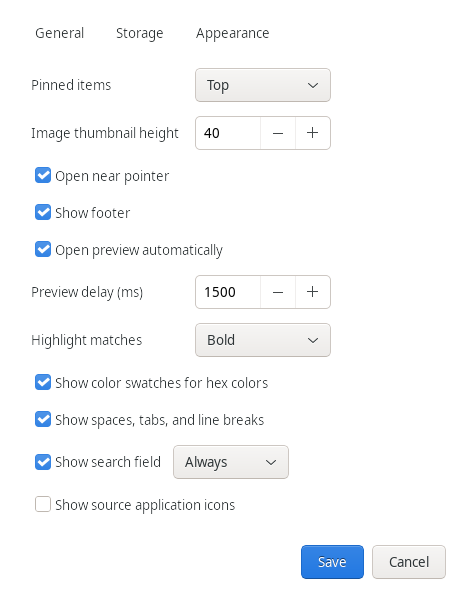
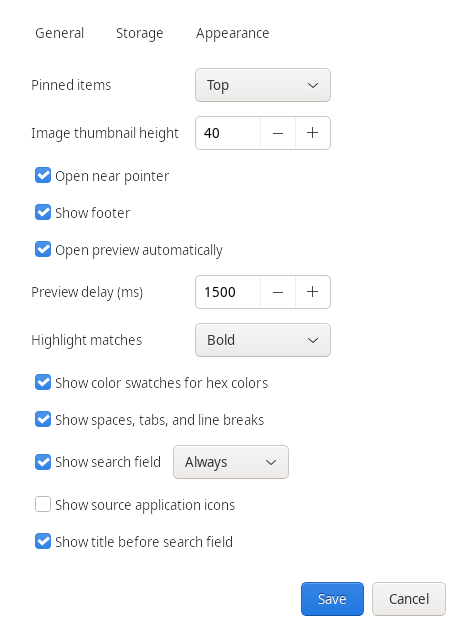
Add Maccy-style optional popup title

diff --git a/linuxxy.py b/linuxxy.py
@@ -63,13 +63,20 @@ class App:
         box = Gtk.Box(orientation=Gtk.Orientation.VERTICAL, spacing=0)
         box.set_border_width(7)
         self.window.add(box)
+        self.search_line = Gtk.Box(spacing=5)
+        self.search_line.set_no_show_all(True)
+        box.pack_start(self.search_line, False, False, 3)
+        self.title_label = Gtk.Label(label="Linuxxy")
+        self.title_label.set_name("linuxxy-title")
+        self.title_label.set_no_show_all(True)
+        self.search_line.pack_start(self.title_label, False, False, 5)
         self.search = Gtk.SearchEntry()
         self.search.set_name("linuxxy-search")
         self.search.set_no_show_all(True)
         self.search.set_placeholder_text("Search clipboard history")
         self.search.connect("changed", self.search_changed)
         self.search.connect("key-press-event", self.search_key)
-        box.pack_start(self.search, False, False, 3)
+        self.search_line.pack_start(self.search, True, True, 0)
         self.search_separator = Gtk.Separator()
         self.search_separator.set_no_show_all(True)
         box.pack_start(self.search_separator, False, False, 4)
@@ -129,6 +136,7 @@ class App:
         provider.load_from_data(b"""
             #linuxxy-popup { background: #28292d; border: 1px solid #4a4b50; border-radius: 9px; }
             #linuxxy-search { min-height: 30px; margin: 2px 2px 4px 2px; }
+            #linuxxy-title { color: #b8b9bd; font-size: 12px; }
             #linuxxy-list, #linuxxy-list > row { background: transparent; }
             #linuxxy-list > row { min-height: 31px; border-radius: 5px; }
             #linuxxy-list > row label { color: #eeeeee; }
@@ -156,7 +164,10 @@ class App:
         )
         was_focused = self.search.is_focus()
         self.search.set_visible(visible)
-        self.search_separator.set_visible(visible)
+        self.title_label.set_visible(self.settings.get("show_title"))
+        header_visible = visible or self.settings.get("show_title")
+        self.search_line.set_visible(header_visible)
+        self.search_separator.set_visible(header_visible)
         if not visible and was_focused and self.window.get_visible():
             row = self.selected()
             if row:
@@ -341,8 +352,10 @@ class App:
         visible = min(count, 9)
         image_extra = max(0, self.settings.get("image_max_height") - 30)
         height = 105 + max(34, visible * 40 + min(image_count, visible) * image_extra)
-        if not self.search.get_visible():
+        if not self.search_line.get_visible():
             height -= 43
+        elif not self.search.get_visible():
+            height -= 14
         if not self.settings.get("show_footer"):
             height -= 26
         self.window.resize(440, min(height, 470))
@@ -955,6 +968,9 @@ class App:
         application_icons = Gtk.CheckButton(label="Show source application icons")
         application_icons.set_active(self.settings.get("show_application_icons"))
         grids["Appearance"].attach(application_icons, 0, 10, 2, 1)
+        show_title = Gtk.CheckButton(label="Show title before search field")
+        show_title.set_active(self.settings.get("show_title"))
+        grids["Appearance"].attach(show_title, 0, 11, 2, 1)
         buttons = Gtk.Box(spacing=8)
         layout.pack_end(buttons, False, False, 0)
         cancel = Gtk.Button(label="Cancel")
@@ -1008,6 +1024,7 @@ class App:
                 ("show_special_symbols", special_symbols.get_active()),
                 ("show_search_field", show_search.get_active()),
                 ("show_application_icons", application_icons.get_active()),
+                ("show_title", show_title.get_active()),
                 ("search_visibility", search_visibility.get_active_id()),
                 ("clear_on_quit", clear_on_quit.get_active()),
                 ("launch_at_login", launch_at_login.get_active()),

diff --git a/tests/search_visibility_smoke.py b/tests/search_visibility_smoke.py
@@ -33,6 +33,8 @@ def main():
         if original_image or original_text is not None:
             clipboard.store()
     atexit.register(restore)
+    clipboard.set_text('', -1)
+    clipboard.store()
 
     with tempfile.TemporaryDirectory() as directory:
         temp = Path(directory)

diff --git a/settings.py b/settings.py
@@ -30,6 +30,7 @@ DEFAULTS = {
     "save_files": True,
     "show_footer": True,
     "show_application_icons": False,
+    "show_title": True,
 }
 
 

diff --git a/README.md b/README.md
@@ -77,7 +77,8 @@ search mode (exact, fuzzy, regex, or mixed), match highlighting (bold, italic,
 underline, or color), pinned item position, popup position, automatic preview
 and its delay, image thumbnail height, hex color swatches, visible whitespace
 symbols, search field visibility (always, while typing, or hidden), footer
-visibility, optional source application icons, clear-on-quit behavior, and launch
+visibility, an optional title before the search field, optional source application
+icons, clear-on-quit behavior, and launch
 at login. When the search field is hidden, typing still filters the history;
 Backspace removes the last character.
 Preferences are saved in
